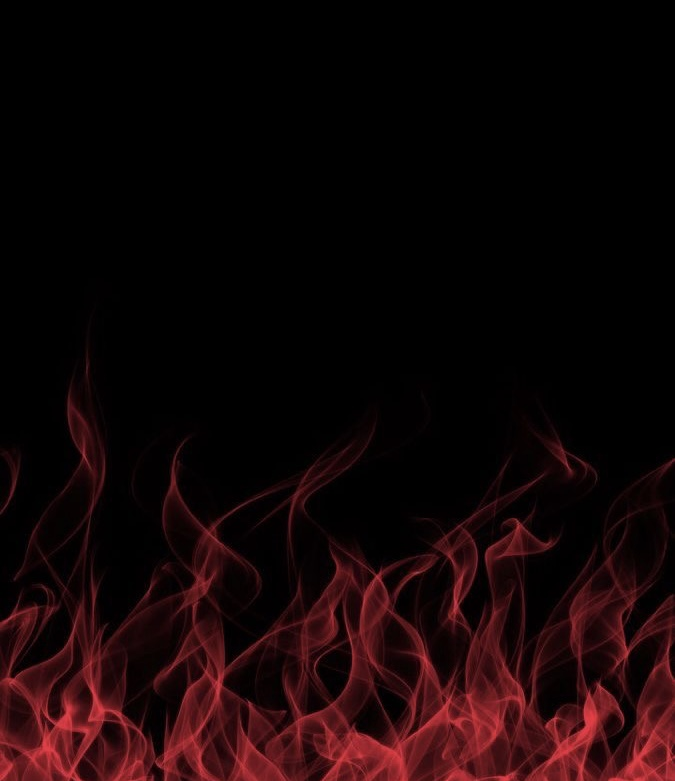
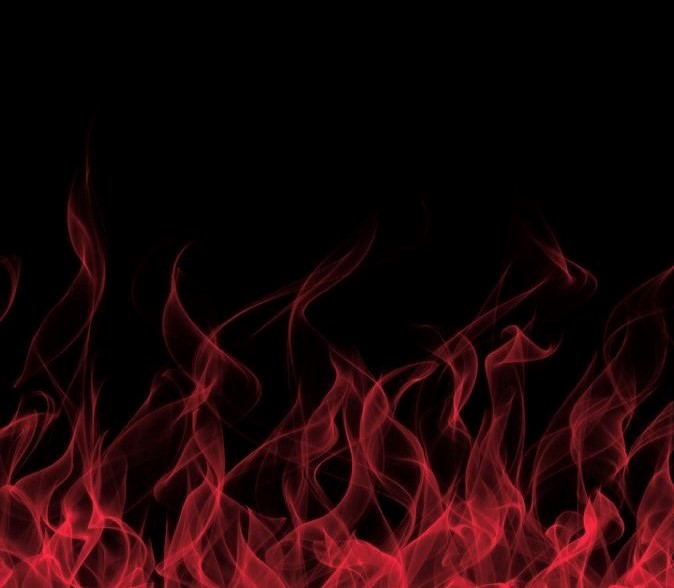
cambios en home, detalle serie y busqueda

diff --git a/css/style.css b/css/style.css
@@ -45,18 +45,28 @@ font-size: 35px;
     font-size: 40px;
     color: black;
     text-decoration: none;
+    transition: transform.2s;
 }
+.rute:hover{
+    transform: scale(1.1);
 
+}
 .palabraRute{
     font-size: 40px;
     color: rgb(212, 0, 0);
     text-decoration: none;
+    transition: transform.2s;
+}
+.palabraRute:hover{
+    transform: scale(1.1);
+
 }
 
 .containerPadre{
-    background-image: url(../img/fondo\ marco\ gian.JPEG);
+    background-image: url(../img/backrojo.png);
     background-repeat: no-repeat;
-    background-size: 1600px 4650px;
+    background-size: 100% 100%;
+    
     padding: 0px 0px 110px 0px;
 }
 
@@ -73,9 +83,6 @@ font-size: 35px;
     font-size: 50px;
     margin: 30px;
     
-}
-.taquilla{
-    width: 290px;
 }
 
 .populares{
@@ -101,6 +108,11 @@ article{
 
 .taquilla{
     width: 300px;
+    transition: transform.2s;
+}
+.taquilla:hover{
+    transform: scale(1.1);
+
 }
 
 .masvisto{
@@ -117,6 +129,7 @@ article{
 
 .pie{
     background-image: url(../img/fondo\ footer.jpg);
+    margin: 10px -10px -10px 0px;
     font-size: 40px;
     color: white;
     padding: 35px;
@@ -131,16 +144,21 @@ article{
     text-align: left;
     text-decoration: none;
     padding: 20px;
-    background-color: rgb(255, 255, 255);
-   
-    margin: 10px -10px;
+    background-color: rgba(255, 255, 255, 0.411);
+    border: 2px solid #eee;
+    border-radius: .5rem;
+    cursor: pointer;
+    transition: transform.2s;
+    margin: 10px 10px;
     font-family: 'Bebas Neue', cursive;
     font-size: 40px;
+}
+.botonF:hover{
+    transform: scale(1.1);
 }
 
 .logis{
     color: white;
-    
 }
 
 .nombresFoot{
@@ -154,7 +172,6 @@ article{
     display: flex;
     justify-content: left;
     height: 85px;
-    
 }
 
 .titulo-lista1{
@@ -195,4 +212,29 @@ article{
     font-family: 'Bebas Neue', cursive;
     text-decoration: none;
     color: white;
+}
+
+.barrablanca{
+display: flex;
+text-align: left;
+color: rgb(255, 255, 255);
+text-decoration: none;
+padding: 20px;
+margin: -10px -10px;
+background-color: rgb(100, 5, 5);
+}
+
+.buscar{
+padding: 2px;
+
+}
+.buscar input{
+    width: 250px;
+    height: 60px;
+    padding: 0px 20px;
+    font-size: 20px;
+    color: rgb(184, 0, 0);
+    outline: none;
+    border: 4px solid rgb(0, 0, 0);
+    border-radius: 30px;
 }

diff --git a/detalles series.html b/detalles series.html
@@ -27,6 +27,25 @@
     <a class="rute" href="./buscador.html">  <i class="fa-solid fa-magnifying-glass"></i></a>
 </p>
  
+<section class="containerDetalle">
+    <article class="detallesevenimg">
+        <img class= "fotodetalle" src="./img/el gordo bjorn.jpg" alt="elPadrino">
+    </article>
+
+    <article class="detalleSevenContenido">
+        <h2>Vikings</h2>
+        <p class="d1" style="color:#FF0000";><strong>2013 | Drama / Accion   |   6 temporadas   |   <a href="./favoritos.html"><i class="fa-sharp fa-solid fa-star"></i></a></strong></p>
+        <p class="d2"><a class="d2" href="https://www.imdb.com/title/tt2306299/?ref_=nv_sr_srsg_0">Puntuación en IMDb  <FONT SIZE=6 COLOR="red"> 8,5/10 </FONT></a></p>
+        <p class="d1">  
+            Vikings está inspirada en las sagas del vikingo Ragnar Lodbrok, uno de los héroes nórdicos legendarios más conocidos y notorio como el flagelo de Inglaterra y Francia. El programa retrata a Ragnar como un granjero que ha conseguido construir barcos revolucionarios con instrumentos de navegación también revolucionarios.</p>
+        
+        
+    </article>
+
+</section>
+
+
+
 <footer class="pie">
     <p>Filippo Savaglio  |  Gianluca Fratta  |  Ignacio Uranga</p>
     <p class="logis">

diff --git a/home.html b/home.html
@@ -35,6 +35,9 @@
             <a class="rute" href="./generos.html"> | GENEROS | </a>
             <a class="rute" href="./detalles generos.html"> | DETALLES GENEROS | </a>
             <a class="rute" href="./buscador.html"><i class="fa-solid fa-magnifying-glass"></i></a>
+            <div class="buscar">
+                <input type="text" placeholder="Bucar" required>
+            </div>
         </nav>
         
         <section class="containerPadre">
@@ -233,19 +236,11 @@
             </section>
 
         </section>
-
+                <p class="barrablanca"><button class="botonF" type="submit">| ABOUT US || SUSCRIBIRSE |</button></p>
         <footer class="pie">
             <p>
            
-                <p class = "minilogoBJ">
-                    <img src="./img/minilogopaginas.png" alt="minilogo">
-                </p>
             
-             
-                <button class="botonF" type="submit">
-                    | ABOUT US |
-                    | SUSCRIBIRSE |
-                </button>
 
                 <p class="logis">
                     <i class="fa-brands fa-whatsapp"></i>

diff --git a/subscribe.html b/subscribe.html
@@ -1,0 +1,12 @@
+<!DOCTYPE html>
+<html lang="en">
+<head>
+    <meta charset="UTF-8">
+    <meta http-equiv="X-UA-Compatible" content="IE=edge">
+    <meta name="viewport" content="width=device-width, initial-scale=1.0">
+    <title>Subscribe</title>
+</head>
+<body>
+    
+</body>
+</html>
